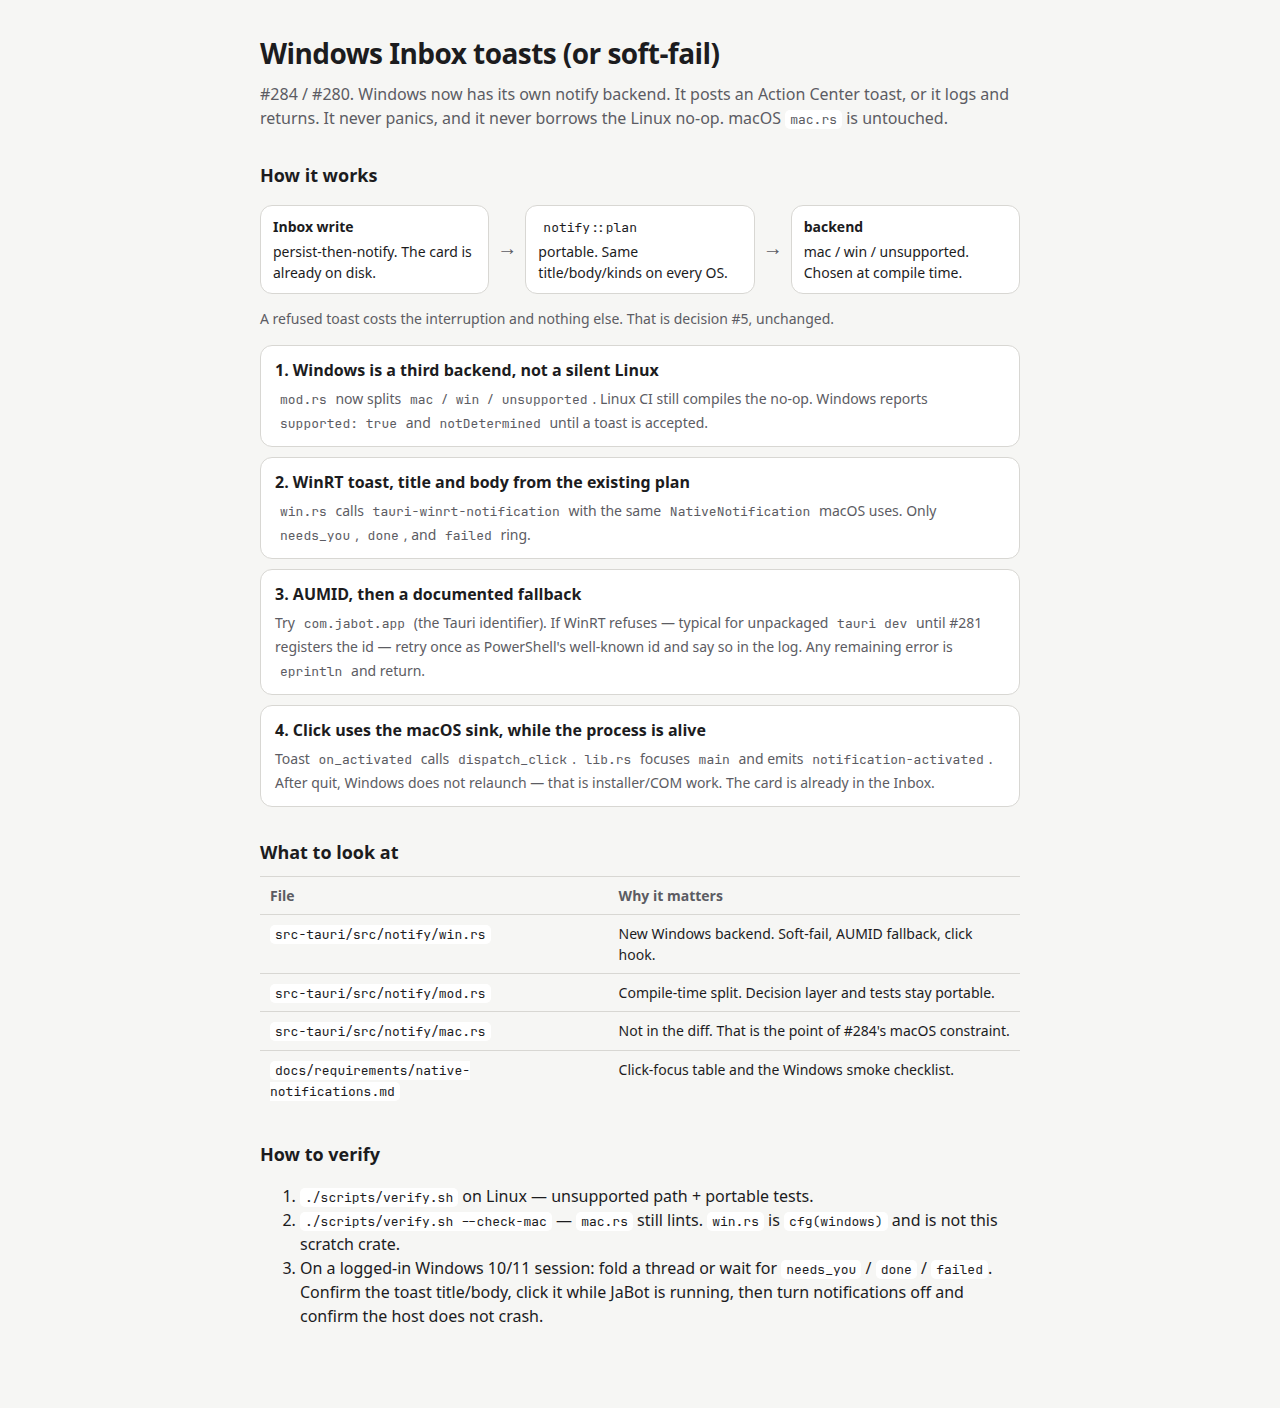
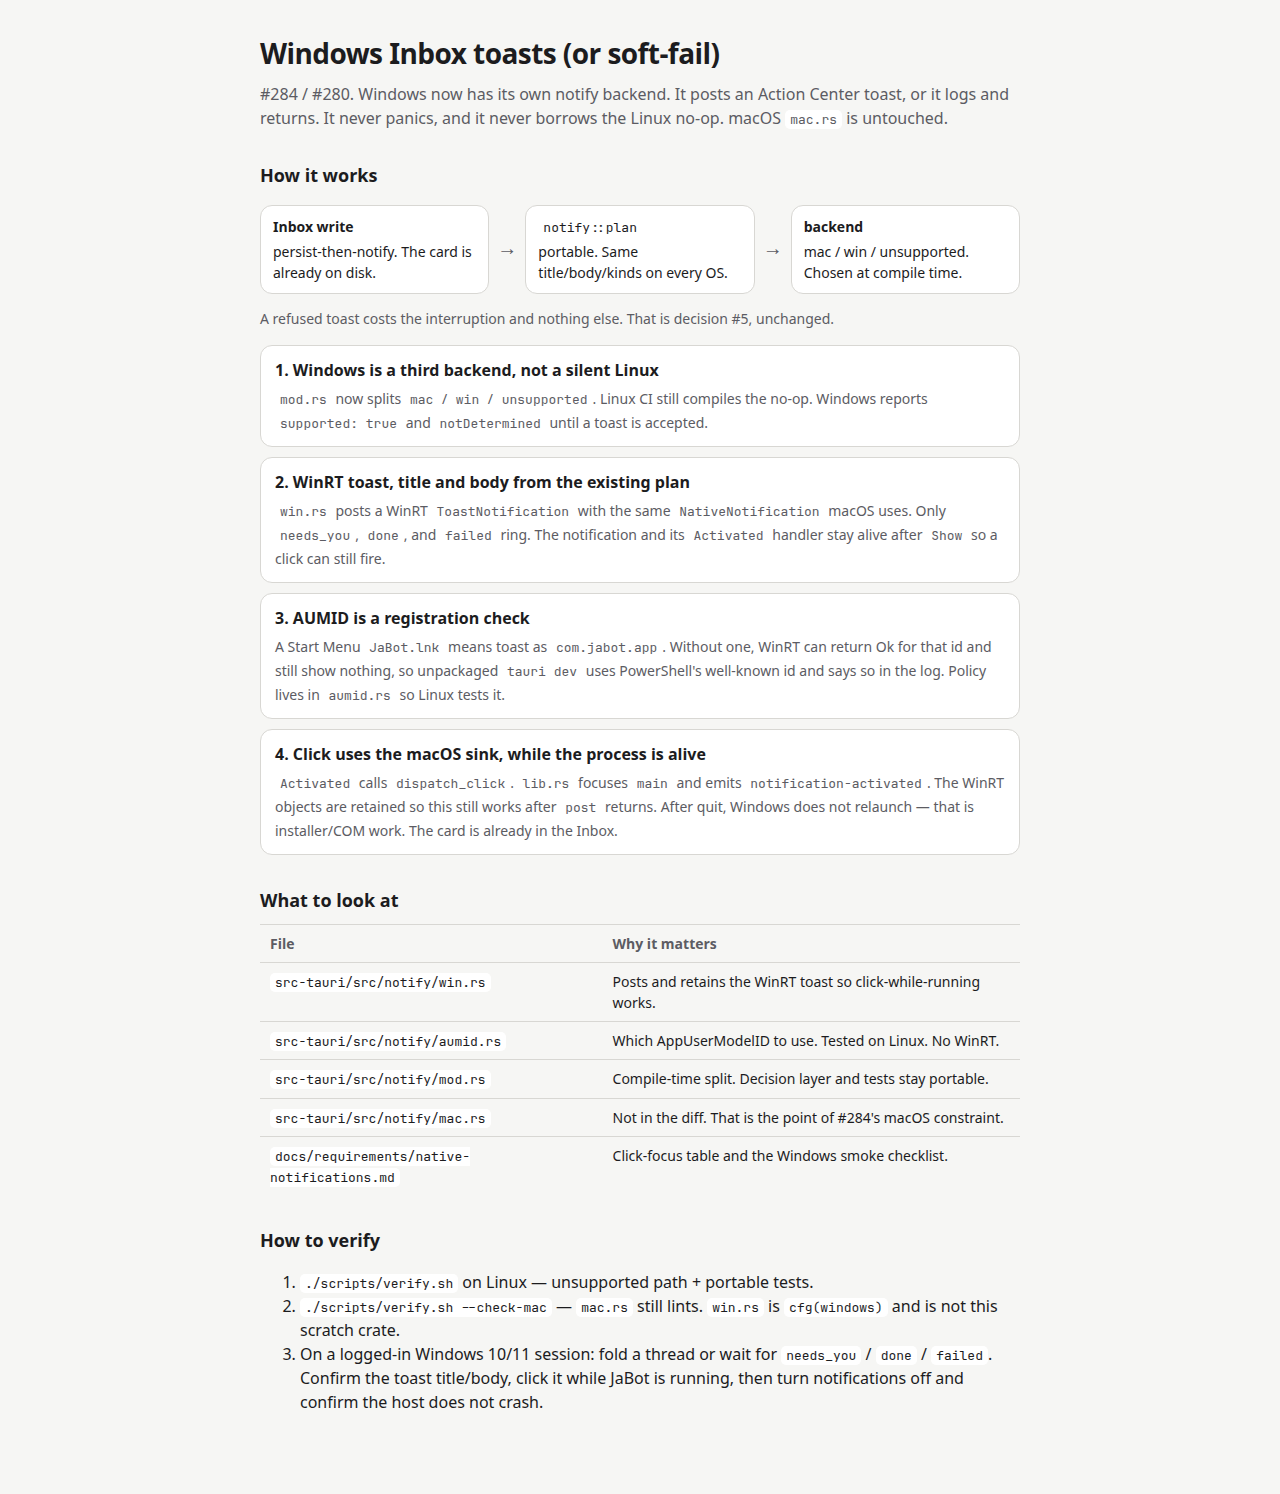
Do not treat an unregistered AUMID Show Ok as a visible toast
CreateToastNotifierWithId can succeed for com.jabot.app and still
display nothing. Skip that id unless a Start Menu shortcut exists,
and leak the ToastNotification plus Activated handler — those WinRT
types are not Send, so a static mutex list does not compile.

Changed region(s): [[0.1875, 0.0312, 0.7812, 0.5625], [0.1875, 0.5938, 0.7812, 0.9688], [0.4688, 0.625, 0.7812, 0.7812]]

diff --git a/docs/img/pr-288-windows-notify/walkthrough.html b/docs/img/pr-288-windows-notify/walkthrough.html
@@ -170,14 +170,14 @@
           </span>
         </div>
         <div class="step">
-          <strong>3. AUMID, then a documented fallback</strong>
+          <strong>3. AUMID is a registration check</strong>
           <span>
-            Try <code>com.jabot.app</code> (the Tauri identifier). If WinRT
-            refuses — typical for unpackaged <code>tauri dev</code> until
-            #281 registers the id — retry once as PowerShell's well-known
-            id and say so in the log. A PowerShell success does not skip
-            the real id next time. Any remaining error is
-            <code>eprintln</code> and return.
+            A Start Menu <code>JaBot.lnk</code> means toast as
+            <code>com.jabot.app</code>. Without one, WinRT can return Ok
+            for that id and still show nothing, so unpackaged
+            <code>tauri dev</code> uses PowerShell's well-known id and
+            says so in the log. Policy lives in <code>aumid.rs</code> so
+            Linux tests it.
           </span>
         </div>
         <div class="step">
@@ -201,7 +201,11 @@
         </tr>
         <tr>
           <td><code>src-tauri/src/notify/win.rs</code></td>
-          <td>New Windows backend. Soft-fail, AUMID fallback, click hook.</td>
+          <td>Posts and retains the WinRT toast so click-while-running works.</td>
+        </tr>
+        <tr>
+          <td><code>src-tauri/src/notify/aumid.rs</code></td>
+          <td>Which AppUserModelID to use. Tested on Linux. No WinRT.</td>
         </tr>
         <tr>
           <td><code>src-tauri/src/notify/mod.rs</code></td>

diff --git a/src-tauri/src/notify/win.rs b/src-tauri/src/notify/win.rs
@@ -5,17 +5,17 @@
 //! AppUserModelID. Every entry point here logs and returns. The Inbox card
 //! was written before this module was called.
 //!
-//! **AUMID, then a documented fallback.** Packaged JaBot should toast as
-//! [`APP_USER_MODEL_ID`] (`com.jabot.app`, the Tauri identifier). Until the
-//! installer registers that id (#281), WinRT often rejects it; we then retry
-//! once with PowerShell's well-known id so a toast still appears. That retry
-//! *looks* like PowerShell. The log says so. Do not treat the fallback as
-//! the shipping identity. Always try the real id first — a PowerShell
-//! success does not sticky-lock the rest of the process.
+//! **AUMID is a registration check.** Packaged JaBot toasts as
+//! [`APP_USER_MODEL_ID`] (`com.jabot.app`) when a Start Menu shortcut
+//! exists. `CreateToastNotifierWithId` can return Ok for an unregistered
+//! id and still show nothing, so unpackaged `tauri dev` uses PowerShell's
+//! well-known id instead of "succeeding" silently. The log says so. Each
+//! toast re-checks the shortcut — a mid-session #281 install is picked up.
 //!
 //! **Clicks, while this process is alive.** Each toast's `ToastNotification`
-//! and `Activated` handler are retained for the life of the banner (a
-//! process-global list). A click then calls
+//! and `Activated` handler are leaked for the life of the process (those
+//! WinRT types are not `Send`, so a static mutex list will not compile).
+//! A click then calls
 //! [`dispatch_click`](super::dispatch_click), which is the same sink macOS
 //! uses: focus the window, tell the renderer which thread to open. Dropping
 //! those objects after `Show` — what `tauri-winrt-notification` 0.8.1
@@ -33,12 +33,11 @@
 //! after a `Show` that Action Center then hid. InboxView's "notifications
 //! are turned off" line is therefore macOS-only in practice.
 //!
-//! **Replace-not-stack is macOS-only for now.** We do not set Tag/Group on
-//! this path, so two cards on one thread may sit together in Action Center.
-//! Same noise budget as macOS; louder shelf.
+//! **Replace-not-stack.** Tag/Group are set on the notification we retain
+//! (16-character tag from the thread id). Action Center can still stack.
 
+use std::path::PathBuf;
 use std::sync::atomic::{AtomicU8, Ordering};
-use std::sync::Mutex;
 
 use windows::core::{h, IInspectable, HSTRING};
 use windows::Data::Xml::Dom::XmlDocument;
@@ -46,30 +45,27 @@ use windows::Foundation::TypedEventHandler;
 use windows::UI::Notifications::{ToastNotification, ToastNotificationManager};
 
 use super::{
-    app_id_candidates, Authorization, NativeNotification, APP_USER_MODEL_ID, POWERSHELL_APP_ID,
+    app_id_candidates, toast_tag, Authorization, NativeNotification, APP_USER_MODEL_ID,
+    POWERSHELL_APP_ID,
 };
 
 const UNSUPPORTED: u8 = 0;
 const NOT_DETERMINED: u8 = 1;
 const GRANTED: u8 = 2;
 
-/// How many live banners we keep handlers for. Action Center can still show
-/// an older toast; past this cap its in-process click is the one we drop.
-const LIVE_CAP: usize = 64;
-
 /// The last delivery outcome we learned. Starts `NOT_DETERMINED` after
 /// [`install`]: Windows can toast, we just have not proved it yet.
 static AUTHORIZATION: AtomicU8 = AtomicU8::new(UNSUPPORTED);
 
-/// WinRT drops `Activated` when the `ToastNotification` (and its handler) are
-/// released. Keep both for the banner's life so a click after `post` returns
-/// still reaches [`dispatch_click`](super::dispatch_click).
+/// WinRT drops `Activated` when the `ToastNotification` (and its handler)
+/// are released. Those types are not `Send`, so a process-global
+/// `Mutex<Vec<_>>` will not compile. Forgetting the pair keeps the click
+/// alive for the process — the allowed alternative to a static list.
+/// Inbox toasts are rare (`needs_you` / `done` / `failed`).
 struct LiveToast {
     _notification: ToastNotification,
     _activated: TypedEventHandler<ToastNotification, IInspectable>,
 }
-
-static LIVE_TOASTS: Mutex<Vec<LiveToast>> = Mutex::new(Vec::new());
 
 pub fn supported() -> bool {
     true
@@ -113,7 +109,7 @@ pub fn deliver(note: &NativeNotification) {
 fn show_toast(note: &NativeNotification) -> Result<String, String> {
     let mut last_err = String::from("no AppUserModelID left to try");
 
-    for app_id in app_id_candidates() {
+    for app_id in app_id_candidates(jabot_aumid_is_registered()) {
         match post(app_id, note) {
             Ok(()) => return Ok(app_id.to_string()),
             Err(err) => last_err = format!("{app_id}: {err}"),
@@ -125,6 +121,8 @@ fn show_toast(note: &NativeNotification) -> Result<String, String> {
 fn post(app_id: &str, note: &NativeNotification) -> windows::core::Result<()> {
     let xml = toast_xml(note)?;
     let notification = ToastNotification::CreateToastNotification(&xml)?;
+    let _ = notification.SetGroup(&HSTRING::from("jabot.inbox"));
+    let _ = notification.SetTag(&HSTRING::from(toast_tag(&note.thread_id)));
 
     let thread_id = note.thread_id.clone();
     let kind = note.reason.as_str().to_string();
@@ -168,12 +166,61 @@ fn toast_xml(note: &NativeNotification) -> windows::core::Result<XmlDocument> {
     Ok(xml)
 }
 
-fn retain(toast: LiveToast) {
-    let mut live = LIVE_TOASTS.lock().unwrap_or_else(|e| e.into_inner());
-    if live.len() >= LIVE_CAP {
-        live.remove(0);
+fn jabot_aumid_is_registered() -> bool {
+    start_menu_roots()
+        .into_iter()
+        .any(|root| shortcut_named_jabot(&root))
+}
+
+fn start_menu_roots() -> Vec<PathBuf> {
+    let mut roots = Vec::new();
+    if let Ok(app_data) = std::env::var("APPDATA") {
+        roots.push(PathBuf::from(app_data).join("Microsoft/Windows/Start Menu/Programs"));
     }
-    live.push(toast);
+    if let Ok(program_data) = std::env::var("PROGRAMDATA") {
+        roots.push(PathBuf::from(program_data).join("Microsoft/Windows/Start Menu/Programs"));
+    }
+    roots
+}
+
+fn shortcut_named_jabot(root: &std::path::Path) -> bool {
+    if !root.is_dir() {
+        return false;
+    }
+    let Ok(entries) = std::fs::read_dir(root) else {
+        return false;
+    };
+    for entry in entries.flatten() {
+        let path = entry.path();
+        if is_jabot_shortcut(&path) {
+            return true;
+        }
+        if path.is_dir()
+            && (is_jabot_shortcut(&path.join("JaBot.lnk"))
+                || is_jabot_shortcut(&path.join("jabot.lnk")))
+        {
+            return true;
+        }
+    }
+    false
+}
+
+fn is_jabot_shortcut(path: &std::path::Path) -> bool {
+    if path
+        .extension()
+        .and_then(|e| e.to_str())
+        .is_none_or(|e| !e.eq_ignore_ascii_case("lnk"))
+    {
+        return false;
+    }
+    path.file_stem()
+        .and_then(|s| s.to_str())
+        .is_some_and(|name| name.eq_ignore_ascii_case("jabot"))
+        && path.is_file()
+}
+
+fn retain(toast: LiveToast) {
+    std::mem::forget(toast);
 }
 
 #[cfg(test)]

diff --git a/src-tauri/src/notify/aumid.rs b/src-tauri/src/notify/aumid.rs
@@ -1,13 +1,11 @@
 //! Windows AppUserModelID order. Portable so Linux verify can test it.
 //!
-//! Packaged JaBot should toast as [`APP_USER_MODEL_ID`]. Until the installer
-//! registers that id (#281), WinRT often rejects it; [`app_id_candidates`]
-//! then offers PowerShell's well-known id so a toast still appears. The
-//! PowerShell path *looks* like PowerShell. Do not treat it as the shipping
-//! identity.
-//!
-//! Last-success is not sticky. Always try the real id first so a mid-session
-//! installer registration is picked up without restarting JaBot.
+//! Packaged JaBot should toast as [`APP_USER_MODEL_ID`].
+//! `CreateToastNotifierWithId` can return Ok for an unregistered id and
+//! still show nothing, so the input is "is there a Start Menu shortcut?"
+//! — not "did Show return Ok?". Last-success is not sticky: each toast
+//! re-asks, so a mid-session installer registration is picked up.
+#![cfg_attr(not(target_os = "windows"), allow(dead_code))]
 
 /// Must match `identifier` in `src-tauri/tauri.conf.json`.
 pub const APP_USER_MODEL_ID: &str = "com.jabot.app";
@@ -16,10 +14,31 @@ pub const APP_USER_MODEL_ID: &str = "com.jabot.app";
 pub const POWERSHELL_APP_ID: &str =
     "{1AC14E77-02E7-4E5D-B744-2EB1AE5198B7}\\WindowsPowerShell\\v1.0\\powershell.exe";
 
-/// Real id first, PowerShell last. Last-success is not an input: a previous
-/// PowerShell success must not skip `com.jabot.app` forever.
-pub fn app_id_candidates() -> Vec<&'static str> {
-    vec![APP_USER_MODEL_ID, POWERSHELL_APP_ID]
+/// Which AUMID to post with.
+///
+/// A registered Start Menu shortcut (#281) means the real id can show a
+/// toast that names JaBot. Without one, skip `com.jabot.app` entirely —
+/// a silent Ok would hide the PowerShell fallback that actually appears.
+pub fn app_id_candidates(jabot_registered: bool) -> Vec<&'static str> {
+    if jabot_registered {
+        vec![APP_USER_MODEL_ID]
+    } else {
+        vec![POWERSHELL_APP_ID]
+    }
+}
+
+/// Action Center `Tag` is 16 characters. Prefer the tail of the thread id
+/// so two UUIDs that share a prefix still replace rather than collide.
+pub fn toast_tag(thread_id: &str) -> String {
+    let stripped: String = thread_id
+        .chars()
+        .filter(|c| c.is_ascii_alphanumeric())
+        .collect();
+    if stripped.len() <= 16 {
+        stripped
+    } else {
+        stripped[stripped.len() - 16..].to_string()
+    }
 }
 
 #[cfg(test)]
@@ -27,10 +46,21 @@ mod tests {
     use super::*;
 
     #[test]
-    fn windows_aumid_always_tries_jabot_then_powershell() {
-        assert_eq!(
-            app_id_candidates(),
-            vec![APP_USER_MODEL_ID, POWERSHELL_APP_ID]
-        );
+    fn registered_jabot_uses_the_real_id_only() {
+        assert_eq!(app_id_candidates(true), vec![APP_USER_MODEL_ID]);
+    }
+
+    #[test]
+    fn unpackaged_uses_powershell_instead_of_a_silent_ok() {
+        assert_eq!(app_id_candidates(false), vec![POWERSHELL_APP_ID]);
+    }
+
+    #[test]
+    fn toast_tag_fits_the_sixteen_char_limit() {
+        assert_eq!(toast_tag("thread-7"), "thread7");
+        let uuid = "550e8400-e29b-41d4-a716-446655440000";
+        let tag = toast_tag(uuid);
+        assert_eq!(tag.len(), 16);
+        assert!(tag.chars().all(|c| c.is_ascii_alphanumeric()));
     }
 }

diff --git a/src-tauri/src/notify/mod.rs b/src-tauri/src/notify/mod.rs
@@ -37,7 +37,7 @@ use serde_json::Value;
 use crate::host::{INBOX_EVENT, INBOX_RESURFACE};
 
 mod aumid;
-pub use aumid::{app_id_candidates, APP_USER_MODEL_ID, POWERSHELL_APP_ID};
+pub use aumid::{app_id_candidates, toast_tag, APP_USER_MODEL_ID, POWERSHELL_APP_ID};
 
 #[cfg(target_os = "macos")]
 mod mac;
@@ -503,12 +503,10 @@ mod tests {
     }
 
     /// Windows AUMID order is portable on purpose: Linux verify must see
-    /// that a PowerShell success does not sticky-lock `com.jabot.app`.
+    /// that an unregistered `com.jabot.app` is not treated as a visible toast.
     #[test]
-    fn windows_aumid_always_tries_the_real_id_first() {
-        assert_eq!(
-            app_id_candidates(),
-            vec![APP_USER_MODEL_ID, POWERSHELL_APP_ID]
-        );
+    fn windows_aumid_skips_an_unregistered_real_id() {
+        assert_eq!(app_id_candidates(true), vec![APP_USER_MODEL_ID]);
+        assert_eq!(app_id_candidates(false), vec![POWERSHELL_APP_ID]);
     }
 }

diff --git a/docs/requirements/native-notifications.md b/docs/requirements/native-notifications.md
@@ -68,11 +68,15 @@ shared. `lib.rs` focuses the `main` window and emits
 | Windows | Focuses the window and opens that thread. `win.rs` keeps each `ToastNotification` and its `Activated` handler alive after `Show` so the click still reaches `dispatch_click`. | Does **not** relaunch. A Start Menu shortcut / COM activator is installer work (#281). The Inbox card is already on disk. |
 | Linux / other | No banner, so no click | — |
 
-Unpackaged `tauri dev` on Windows may toast under PowerShell's
-AppUserModelID (the log says so) until NSIS/MSI registers `com.jabot.app`.
-A PowerShell success does not skip `com.jabot.app` on later toasts.
-Same-thread replacement (one banner, not a stack) is macOS-only for now;
-Windows may show two toasts for two cards on one thread.
+Unpackaged `tauri dev` on Windows toasts under PowerShell's
+AppUserModelID (the log says so) until a Start Menu `JaBot.lnk`
+registers `com.jabot.app`. We do **not** treat
+`CreateToastNotifierWithId` returning Ok as proof the real id can show
+a banner — that API can succeed and still display nothing. Each toast
+re-checks the shortcut, so a mid-session installer is picked up.
+
+Same-thread replacement uses WinRT Tag/Group (16-character tag from the
+thread id). That is best-effort; Action Center can still stack.
 
 Windows never reports `denied`. There is no permission prompt; Settings
 can still suppress the banner. `authorization` stays `notDetermined`
@@ -89,7 +93,9 @@ this, for the same honesty reason as D-019 on macOS.
 2. **Toast appears** with that card's title and summary (or the reason
    fallback copy). Evidence: screenshot of the Action Center toast.
 3. **Click while JaBot is still running** focuses the window and opens
-   that thread. Evidence: screenshot of the opened thread.
+   that thread (the `ToastNotification` and `Activated` handler are
+   retained after `Show` returns — a click seconds later must still
+   work). Evidence: screenshot of the opened thread.
 4. **Failure is soft.** Turning notifications off in Windows Settings, or
    running an unpackaged binary whose AUMID WinRT rejects, must not crash
    the host. Inbox still lists the card. Evidence: the process is still

diff --git a/docs/macos-lint.md b/docs/macos-lint.md
@@ -30,6 +30,7 @@ So cfg(macos) lint is a pair of scoped PR checks, not a new default
 | --- | --- | --- | --- |
 | `src-tauri/src/notify/mac.rs` | `UNUserNotificationCenter` delivery | **mac notify cross-check** (Linux) | Existing scratch crate from #109. `objc2*` only; no Apple `cc`. |
 | `src-tauri/src/notify/mod.rs` | Decision layer + `cfg` split onto `mac` / `win` / `unsupported` | Linux `verify` clippy (portable + unsupported) **and** the notify cross-check (mac backend) | Portable tests already run on Linux; `mod mac` is what the scratch crate compiles. `mod win` is `cfg(windows)` and is not in this check. |
+| `src-tauri/src/notify/aumid.rs` | Windows AUMID / toast-tag policy | Linux `verify` clippy + unit tests | No WinRT. Proves we do not treat an unregistered `com.jabot.app` as a visible toast. |
 | `src-tauri/src/notify/unsupported.rs` | No-op backend | Linux `verify` clippy | Compiled on every non-macOS, non-Windows target. |
 | `src-tauri/src/notify/win.rs` | WinRT toast delivery (#284) | **Not** the Linux notify scratch crate (needs the `windows` crate / WinRT) | Same honesty class as runtime Mac delivery: Linux proves the decision layer. Windows compile/verify is #286. |
 | `src-tauri/src/host/store/secrets.rs` (`os_put` / `os_get` / `os_delete`) | macOS Keychain via `keyring` | **macos clippy** (native) | `keyring` / Security.framework are not in the notify scratch crate. |
